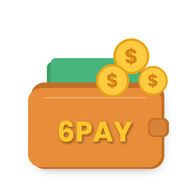
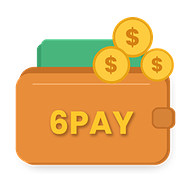
Add files via upload

Changed region(s): [[0.0625, 0.0625, 0.9375, 0.9062], [0.25, 0.5625, 0.7188, 0.75]]

diff --git a/index.html b/index.html
@@ -5,11 +5,12 @@
 <meta name="viewport" content="width=device-width, initial-scale=1, viewport-fit=cover">
 <title>6PAY — Quản lý tài chính cá nhân</title>
 <link rel="manifest" href="manifest.json">
-<link rel="icon" href="icon-192.png" type="image/png">
-<link rel="apple-touch-icon" href="icon-192.png">
+<link rel="icon" href="favicon-32.png" type="image/png" sizes="32x32">
+<link rel="icon" href="icon-192.png" type="image/png" sizes="192x192">
+<link rel="apple-touch-icon" href="apple-touch-icon.png">
 <script>
 // Mỗi lần sửa index.html trên GitHub, hãy đổi số này (vd. 2026.09.28-2 -> 2026.09.28-3) để máy người dùng tự tải bản mới.
-const APP_VERSION='2026.10.12-16';
+const APP_VERSION='2026.10.12-17';
 </script>
   <script>
 try{var _s=JSON.parse(localStorage.getItem('6pay-session-v1'));if(_s&&Date.now()-_s.ts<300000)document.documentElement.classList.add('fast-start');}catch(e){}
@@ -19,6 +20,22 @@ try{var _s=JSON.parse(localStorage.getItem('6pay-session-v1'));if(_s&&Date.now()
 <meta name="apple-mobile-web-app-capable" content="yes">
 <meta name="apple-mobile-web-app-status-bar-style" content="black-translucent">
 <meta name="apple-mobile-web-app-title" content="6PAY">
+<link rel="apple-touch-startup-image" href="splash/1290x2796.png" media="(device-width:430px) and (device-height:932px) and (-webkit-device-pixel-ratio:3) and (orientation:portrait)">
+<link rel="apple-touch-startup-image" href="splash/1179x2556.png" media="(device-width:393px) and (device-height:852px) and (-webkit-device-pixel-ratio:3) and (orientation:portrait)">
+<link rel="apple-touch-startup-image" href="splash/1284x2778.png" media="(device-width:428px) and (device-height:926px) and (-webkit-device-pixel-ratio:3) and (orientation:portrait)">
+<link rel="apple-touch-startup-image" href="splash/1170x2532.png" media="(device-width:390px) and (device-height:844px) and (-webkit-device-pixel-ratio:3) and (orientation:portrait)">
+<link rel="apple-touch-startup-image" href="splash/1125x2436.png" media="(device-width:375px) and (device-height:812px) and (-webkit-device-pixel-ratio:3) and (orientation:portrait)">
+<link rel="apple-touch-startup-image" href="splash/1242x2688.png" media="(device-width:414px) and (device-height:896px) and (-webkit-device-pixel-ratio:3) and (orientation:portrait)">
+<link rel="apple-touch-startup-image" href="splash/828x1792.png" media="(device-width:414px) and (device-height:896px) and (-webkit-device-pixel-ratio:2) and (orientation:portrait)">
+<link rel="apple-touch-startup-image" href="splash/1242x2208.png" media="(device-width:414px) and (device-height:736px) and (-webkit-device-pixel-ratio:3) and (orientation:portrait)">
+<link rel="apple-touch-startup-image" href="splash/750x1334.png" media="(device-width:375px) and (device-height:667px) and (-webkit-device-pixel-ratio:2) and (orientation:portrait)">
+<link rel="apple-touch-startup-image" href="splash/1206x2622.png" media="(device-width:402px) and (device-height:874px) and (-webkit-device-pixel-ratio:3) and (orientation:portrait)">
+<link rel="apple-touch-startup-image" href="splash/1320x2868.png" media="(device-width:440px) and (device-height:956px) and (-webkit-device-pixel-ratio:3) and (orientation:portrait)">
+<link rel="apple-touch-startup-image" href="splash/1668x2388.png" media="(device-width:834px) and (device-height:1194px) and (-webkit-device-pixel-ratio:2) and (orientation:portrait)">
+<link rel="apple-touch-startup-image" href="splash/2048x2732.png" media="(device-width:1024px) and (device-height:1366px) and (-webkit-device-pixel-ratio:2) and (orientation:portrait)">
+<link rel="apple-touch-startup-image" href="splash/1640x2360.png" media="(device-width:820px) and (device-height:1180px) and (-webkit-device-pixel-ratio:2) and (orientation:portrait)">
+<link rel="apple-touch-startup-image" href="splash/1536x2048.png" media="(device-width:768px) and (device-height:1024px) and (-webkit-device-pixel-ratio:2) and (orientation:portrait)">
+<link rel="apple-touch-startup-image" href="splash/1668x2224.png" media="(device-width:834px) and (device-height:1112px) and (-webkit-device-pixel-ratio:2) and (orientation:portrait)">
 <link rel="preconnect" href="https://fonts.googleapis.com">
 <link rel="preconnect" href="https://fonts.gstatic.com" crossorigin>
 <link href="https://fonts.googleapis.com/css2?family=Be+Vietnam+Pro:wght@400;500;600;700;800&display=swap" rel="stylesheet">
@@ -272,6 +289,7 @@ body{margin:0;background:var(--bg);color:var(--text);font-family:'Be Vietnam Pro
 .boot-splash.hide{opacity:0;pointer-events:none;}
 .boot-emoji{font-size:20vw;line-height:1;animation:bootZoom .8s cubic-bezier(.2,1.15,.4,1) forwards;}
 @keyframes bootZoom{0%{transform:scale(.55);opacity:0;}55%{opacity:1;}100%{transform:scale(1);opacity:1;}}
+.boot-logo{width:46vw;max-width:240px;height:auto;animation:bootZoom .8s cubic-bezier(.2,1.15,.4,1) forwards;}
 .boot-brand{font-size:11vw;line-height:1;font-weight:800;letter-spacing:.02em;opacity:0;animation:bootTaglineIn .5s ease forwards;animation-delay:.3s;}
 .boot-tagline{font-size:4.6vw;font-weight:700;color:#0D2A6E;max-width:340px;line-height:1.6;opacity:0;animation:bootTaglineIn .6s ease forwards;animation-delay:.6s;}
 @keyframes bootTaglineIn{0%{opacity:0;transform:translateY(12px);}100%{opacity:1;transform:translateY(0);}}
@@ -484,8 +502,7 @@ body.home-white{background:#FFFFFF;}
 </head>
 <body>
 <div id="bootSplash" class="boot-splash" aria-hidden="true">
- <div class="boot-emoji">💰</div>
- <div class="boot-brand"><span style="color:#E63946">6</span><span style="color:#F4A300">P</span><span style="color:#2A9D8F">A</span><span style="color:#3E6FB8">Y</span></div>
+ <img class="boot-logo" src="icon-512.png" width="512" height="512" alt="">
  <div class="boot-tagline">Hãy ghi chép thường xuyên<br>để tạo thói quen<br>Quản lý tài chính của bạn</div>
 </div>
 <div class="wrap"><div id="app"></div></div>
@@ -596,19 +613,19 @@ const DEFAULT_GUIDES={
    {label:'Xăng xe, di chuyển',link:''}
  ]},
  education:{desc:'Đầu tư cho kiến thức và kỹ năng của bản thân.',items:[
-   {label:'Mua sách',link:'https://your-affiliate-link.com/sach'},
+   {label:'Mua sách',link:''},
    {label:'Dây nhảy dây cao cấp DELI Bantex',link:'https://s.shopee.vn/7AeDasYYA8'},
-   {label:'Khóa học online',link:'https://your-affiliate-link.com/khoahoc'}
+   {label:'Khóa học online',link:''}
  ]},
  saving:{desc:'Tích lũy cho mục tiêu dài hạn và các tình huống bất ngờ.',items:[
-   {label:'Gửi tiết kiệm ngân hàng',link:'https://your-affiliate-link.com/tietkiem'},
-   {label:'Ứng dụng tiết kiệm tự động',link:'https://your-affiliate-link.com/apptietkiem'},
+   {label:'Gửi tiết kiệm ngân hàng',link:''},
+   {label:'Ứng dụng tiết kiệm tự động',link:''},
    {label:'Quỹ dự phòng khẩn cấp',link:''}
  ]},
  invest:{desc:'Phát triển tài sản thông qua đầu tư dài hạn.',items:[
-   {label:'Mở tài khoản chứng khoán',link:'https://your-affiliate-link.com/chungkhoan'},
-   {label:'Chứng chỉ quỹ / ETF',link:'https://your-affiliate-link.com/etf'},
-   {label:'Khóa học đầu tư',link:'https://your-affiliate-link.com/hocdautu'}
+   {label:'Mở tài khoản chứng khoán',link:''},
+   {label:'Chứng chỉ quỹ / ETF',link:''},
+   {label:'Khóa học đầu tư',link:''}
  ]},
  share:{desc:'Chia sẻ với gia đình, bạn bè và cộng đồng.',items:[
    {label:'Mở tài khoản MB kết nối yêu thương',link:'https://mbbank.onelink.me/QPF5?pid=SF%20Email%20Warmup&c=SF_Email_WarmUP_AppInstall&af_force_deeplink=true&af_dp=mbbank%3A%2F%2F&referral_code=OAGPLQ343XAR97XBSSJ3B'},
@@ -616,36 +633,41 @@ const DEFAULT_GUIDES={
    {label:'Hỗ trợ bạn bè khi cần',link:''}
  ]},
  enjoy:{desc:'Tận hưởng cuộc sống, tái tạo năng lượng cho bản thân.',items:[
-   {label:'Ăn uống, giải trí',link:'https://your-affiliate-link.com/giaitri'},
-   {label:'Du lịch, nghỉ dưỡng',link:'https://your-affiliate-link.com/dulich'},
-   {label:'Mua sắm sở thích cá nhân',link:'https://your-affiliate-link.com/muasam'}
+   {label:'Ăn uống, giải trí',link:''},
+   {label:'Du lịch, nghỉ dưỡng',link:''},
+   {label:'Mua sắm sở thích cá nhân',link:''}
  ]}
 };
 
 // Cập nhật gợi ý & link tiếp thị từ xa (guides.json cùng cấu trúc DEFAULT_GUIDES), có cache cho offline.
 const GUIDES_URL='https://raw.githubusercontent.com/ghichepthuchitaichinh/6pay/main/guides.json';
 const GUIDES_CACHE_KEY='6pay-guides-cache-v1';
-let GUIDES=DEFAULT_GUIDES;
+// Chỉ nhận link https://, bỏ link mẫu chưa có thật; luôn đảm bảo đủ 6 ví để không bao giờ lỗi màn hình
+function safeUrl(u){u=String(u||'').trim();return /^https?:\/\//i.test(u)&&u.indexOf('your-affiliate-link.com')<0?u:'';}
+function cleanGuides(d){
+  const out={};
+  JARS.forEach(j=>{
+    const g=d&&d[j.k], base=DEFAULT_GUIDES[j.k];
+    if(g&&Array.isArray(g.items)){
+      out[j.k]={desc:(typeof g.desc==='string'&&g.desc)||base.desc,items:g.items.filter(it=>it&&typeof it.label==='string'&&it.label.trim()).slice(0,50).map(it=>{
+        const o={label:it.label.trim().slice(0,150),link:safeUrl(it.link)}; const v=safeUrl(it.video); if(v)o.video=v; return o;})};
+    }else out[j.k]={desc:base.desc,items:base.items.map(it=>({label:it.label,link:safeUrl(it.link)}))};
+  });
+  return out;
+}
+let GUIDES=cleanGuides(DEFAULT_GUIDES);
 try{
   const cachedGuides=localStorage.getItem(GUIDES_CACHE_KEY);
-  if(cachedGuides){const d=JSON.parse(cachedGuides); if(d&&typeof d==='object')GUIDES=d;}
+  if(cachedGuides){const d=JSON.parse(cachedGuides); if(d&&typeof d==='object')GUIDES=cleanGuides(d);}
 }catch(e){}
 function applyRemoteGuides(data){
   if(!data||typeof data!=='object')return false;
-  const merged={...GUIDES};
-  let changed=false;
-  JARS.forEach(j=>{
-    const g=data[j.k];
-    if(g&&Array.isArray(g.items)){
-      merged[j.k]={desc:(typeof g.desc==='string'&&g.desc)||(GUIDES[j.k]&&GUIDES[j.k].desc)||'',items:g.items};
-      changed=true;
-    }
-  });
-  if(changed){
-    GUIDES=merged;
-    try{localStorage.setItem(GUIDES_CACHE_KEY,JSON.stringify(GUIDES));}catch(e){}
-  }
-  return changed;
+  if(!JARS.some(j=>data[j.k]&&Array.isArray(data[j.k].items)))return false;
+  const merged={};
+  JARS.forEach(j=>{merged[j.k]=(data[j.k]&&Array.isArray(data[j.k].items))?data[j.k]:GUIDES[j.k];});
+  GUIDES=cleanGuides(merged);
+  try{localStorage.setItem(GUIDES_CACHE_KEY,JSON.stringify(GUIDES));}catch(e){}
+  return true;
 }
 function fetchGuides(){
   if(!GUIDES_URL||GUIDES_URL.indexOf('<')>-1)return;
@@ -659,6 +681,7 @@ function fetchGuides(){
 // Ghi lại lượt bấm link tiếp thị (CLICK_LOG_URL tùy chọn, ví dụ Google Apps Script)
 const CLICK_LOG_URL='';
 const CLICK_LOG_KEY='6pay-clicks-v1';
+function trackClickIdx(jarKey,i){const it=(GUIDES[jarKey]&&GUIDES[jarKey].items[i]); if(it)trackClick(jarKey,it.label,it.link);}
 function trackClick(jarKey,label,link){
  try{
   const logs=JSON.parse(localStorage.getItem(CLICK_LOG_KEY)||'[]');
@@ -711,7 +734,7 @@ let locked=!!getAccount(); // có tài khoản thì khóa ngay khi mở app
 function logoutAccount(){loggedIn=false;locked=true;stack=[{id:'home'}];render();}
 function forgotPass(){
  openConfirm('Nếu quên mật khẩu, cách duy nhất là xóa toàn bộ dữ liệu trên máy này (thu chi, tài khoản, kế hoạch...). Bạn có chắc muốn xóa không?',function(){
-  [ACCOUNT_KEY,STORE_KEY,STAR_KEY,STREAK_KEY,PLAN_KEY,QZ_KEY,CLICK_LOG_KEY,NOTES_KEY,GOAL_KEY,BILL_KEY,POMO_KEY,DEBT_KEY].forEach(k=>{try{localStorage.removeItem(k);}catch(e){}});
+  backupKeys().concat([ACCOUNT_KEY,CLICK_LOG_KEY,PLAN_ASK_KEY,INSTALL_KEY,GUIDES_CACHE_KEY,'6pay-session-v1']).forEach(k=>{try{localStorage.removeItem(k);}catch(e){}});
   location.reload();
  });
 }
@@ -919,7 +942,7 @@ function scrLogin(){
   <div class="form-row"><label>Số điện thoại</label><input type="tel" id="auth-phone" placeholder="09xxxxxxxx" value="${acc?esc(acc.phone||''):''}"></div>
   <div class="form-row"><label>Mật khẩu (chỉ nhập số)</label><input type="password" inputmode="numeric" pattern="[0-9]*" maxlength="12" id="auth-pass" placeholder="Mật khẩu" oninput="this.value=this.value.replace(/\\D/g,'')"></div>
   <button class="btn primary" onclick="loginOrRegister()">Xác nhận</button>
-  <div class="guide-desc" style="margin-top:16px;">Nội dung này không bắt buộc. Tuy nhiên, hãy đăng ký để tránh người lạ xem nhật ký chi tiêu của bạn</div>
+  <div class="guide-desc" style="margin-top:16px;">Nội dung này không bắt buộc. Mật khẩu chỉ khóa app trên chính điện thoại này để tránh người lạ xem nhật ký chi tiêu, không đồng bộ giữa các máy. Hãy dùng Sao lưu trong Cài đặt để giữ an toàn dữ liệu.</div>
  `);
 }
   function changePass(){
@@ -1067,14 +1090,14 @@ function scrWallets(){
 function guideLinks(jarKey,onlyLinks){
  const items=GUIDES[jarKey].items.map((it,i)=>({it,i})).filter(o=>!onlyLinks||o.it.link);
  if(!items.length)return '<div class="empty">Chưa có sản phẩm nào.</div>';
- return items.map(o=>{const it=o.it; return it.link ? `<a class="guide-item" href="${it.link}" target="_blank" rel="noopener" onclick="trackClick('${jarKey}','${esc(it.label)}','${it.link}')"><span>${it.label}</span><span class="guide-cta">Mua ngay ↗</span></a><div class="affiliate-note" onclick="openProdInfo('${jarKey}',${o.i})">ℹ Thông tin sản phẩm ›</div>` : `<div class="guide-item plain"><span>${it.label}</span></div>`;}).join('');
+ return items.map(o=>{const it=o.it; return it.link ? `<a class="guide-item" href="${qa(it.link)}" target="_blank" rel="noopener noreferrer sponsored" onclick="trackClickIdx('${jarKey}',${o.i})"><span>${esc(it.label)}</span><span class="guide-cta">Mua ngay ↗</span></a><div class="affiliate-note" onclick="openProdInfo('${jarKey}',${o.i})">ℹ Lưu ý khi mua · Link liên kết ›</div>` : `<div class="guide-item plain"><span>${esc(it.label)}</span></div>`;}).join('');
 }
 function scrJarGuide(opts){
  const j=JARS.find(x=>x.k===opts.jar); const g=GUIDES[opts.jar];
  const bal=jarRemain(opts.jar); const cls=bal<0?'neg':'pos';
  return screenWrap(j.i+' '+j.l,`
   <div class="list-item"><span>Số dư ví</span><span class="${cls}">${fmt(bal)} ₫</span></div>
-  <div class="guide-desc">${g.desc}</div>
+  <div class="guide-desc">${esc(g.desc)}</div>
   ${guideLinks(opts.jar,false)}
  `);
 }
@@ -1921,11 +1944,12 @@ function convertSolar2Lunar(dd,mm,yy,tz){var dayNumber=jdFromDate(dd,mm,yy),k=Ma
 const PRODUCT_VIDEO='https://youtube.com/@6pay-vn?si=z3junLJI4LAb-o3y';
 function openProdInfo(k,i){
  const it=(GUIDES[k]&&GUIDES[k].items[i]); if(!it)return;
- const video=it.video||PRODUCT_VIDEO;
+ const video=safeUrl(it.video)||PRODUCT_VIDEO;
  document.getElementById('prodInfoBox').innerHTML=`
   <button class="jg-x" onclick="closeProdInfo()" aria-label="Đóng">✕</button>
-  <div class="pi-title">ℹ Thông tin sản phẩm</div>
+  <div class="pi-title">ℹ Lưu ý khi mua hàng trực tuyến</div>
   <div class="pi-name">${esc(it.label)}</div>
+  <div class="guide-desc" style="margin:0 0 4px;">Những điều nên tự kiểm tra trên trang bán hàng trước khi đặt mua:</div>
   <div class="pi-h">🏪 Về Người Bán</div>
   <ul><li>Thông tin shop</li><li>Shopee Mall / Yêu Thích+</li><li>Điểm đánh giá ≥ 4.7</li><li>Tỷ lệ phản hồi chat</li><li>Thời gian hoạt động</li><li>Doanh số bán</li></ul>
   <div class="pi-h">📦 Về Sản Phẩm</div>
@@ -1934,7 +1958,7 @@ function openProdInfo(k,i){
   <ul><li>Giá cuối cùng (đã gồm ship)</li><li>Mã giảm giá, miễn ship</li><li>Bảo hành giá</li></ul>
   <div class="pi-h">🛡 Về Chính Sách &amp; Quyền Lợi</div>
   <ul><li>Đổi trả 7 ngày / 15 ngày</li><li>Shopee Đảm Bảo</li><li>Bảo hành hãng / bảo hành shop</li><li>Hóa đơn điện tử</li><li>Thanh toán trên sàn</li><li>Video khui hàng</li></ul>
-  <a class="pi-video" href="${esc(video)}" target="_blank" rel="noopener">▶ Xem video thực tế sản phẩm</a>
+  <a class="pi-video" href="${qa(video)}" target="_blank" rel="noopener noreferrer">▶ Xem video trên kênh Youtube 6Pay</a>
   <div class="pi-foot">Nút “Mua ngay” là link tiếp thị liên kết. 6Pay có thể nhận hoa hồng khi bạn mua hàng, giá bạn trả không đổi.</div>`;
  document.getElementById('prodInfoModal').classList.add('open');
 }
@@ -2818,6 +2842,7 @@ if(window.visualViewport){window.visualViewport.addEventListener('resize',setApp
 streakTick();
 render();
 fetchGuides();
+try{if(navigator.storage&&navigator.storage.persist)navigator.storage.persist();}catch(e){}
 setTimeout(()=>{
  const sp=document.getElementById('bootSplash');
  if(sp){ sp.classList.add('hide'); setTimeout(()=>sp.remove(),300); }

diff --git a/sw.js b/sw.js
@@ -1,27 +1,51 @@
 // Service Worker cho 6PAY — chạy offline, luôn ưu tiên bản mới nhất từ mạng.
-const CACHE_NAME='6pay-cache-v2';
-const ASSETS=['./','./index.html','./manifest.json','./icon-192.png','./icon-512.png'];
+// Mỗi lần thay đổi danh sách ASSETS hoặc logic, hãy đổi số phiên bản CACHE_NAME.
+const CACHE_NAME='6pay-cache-v3';
+const FONT_CACHE='6pay-fonts-v1';
+const ASSETS=['./','./index.html','./manifest.json','./icon-192.png','./icon-512.png','./icon-1024.png','./icon-maskable-512.png','./apple-touch-icon.png','./favicon-32.png'];
 
 self.addEventListener('install',e=>{
- e.waitUntil(Promise.all(ASSETS.map(a=>caches.open(CACHE_NAME).then(c=>c.add(a).catch(()=>{})))));
+ e.waitUntil(
+  caches.open(CACHE_NAME).then(c=>Promise.all(ASSETS.map(a=>c.add(a).catch(()=>{}))))
+ );
  self.skipWaiting();
 });
 
 self.addEventListener('activate',e=>{
  e.waitUntil(
-  caches.keys().then(keys=>Promise.all(keys.filter(k=>k!==CACHE_NAME).map(k=>caches.delete(k))))
+  caches.keys().then(keys=>Promise.all(keys.filter(k=>k!==CACHE_NAME&&k!==FONT_CACHE).map(k=>caches.delete(k))))
+  .then(()=>self.clients.claim())
  );
- self.clients.claim();
 });
 
 self.addEventListener('fetch',e=>{
- if(e.request.method!=='GET')return;
- // Ưu tiên mạng (bỏ qua bộ nhớ đệm trình duyệt); mất mạng thì dùng bản đã lưu.
+ const req=e.request;
+ if(req.method!=='GET')return;
+ const url=new URL(req.url);
+
+ // Phông chữ Google: dùng bản đã lưu trước, tải nền để cập nhật
+ if(url.hostname==='fonts.googleapis.com'||url.hostname==='fonts.gstatic.com'){
+  e.respondWith(
+   caches.open(FONT_CACHE).then(c=>c.match(req).then(hit=>{
+    const net=fetch(req).then(res=>{if(res&&(res.ok||res.type==='opaque'))c.put(req,res.clone());return res;}).catch(()=>hit);
+    return hit||net;
+   }))
+  );
+  return;
+ }
+
+ // Yêu cầu tới trang khác (GitHub raw, CDN...) hoặc yêu cầu kiểm tra bản mới (?v=): để trình duyệt tự xử lý, không lưu vào cache
+ if(url.origin!==location.origin)return;
+ if(url.searchParams.has('v'))return;
+
+ // Tệp của app: ưu tiên mạng (bỏ qua bộ nhớ đệm trình duyệt); mất mạng thì dùng bản đã lưu
  e.respondWith(
-  fetch(e.request,{cache:'no-cache'}).then(res=>{
-   const copy=res.clone();
-   caches.open(CACHE_NAME).then(c=>c.put(e.request,copy)).catch(()=>{});
+  fetch(req,{cache:'no-cache'}).then(res=>{
+   if(res&&res.status===200&&res.type==='basic'){
+    const copy=res.clone();
+    caches.open(CACHE_NAME).then(c=>c.put(req,copy)).catch(()=>{});
+   }
    return res;
-  }).catch(()=>caches.match(e.request))
+  }).catch(()=>caches.match(req,{ignoreSearch:true}).then(hit=>hit||(req.mode==='navigate'?caches.match('./index.html'):undefined)))
  );
 });
